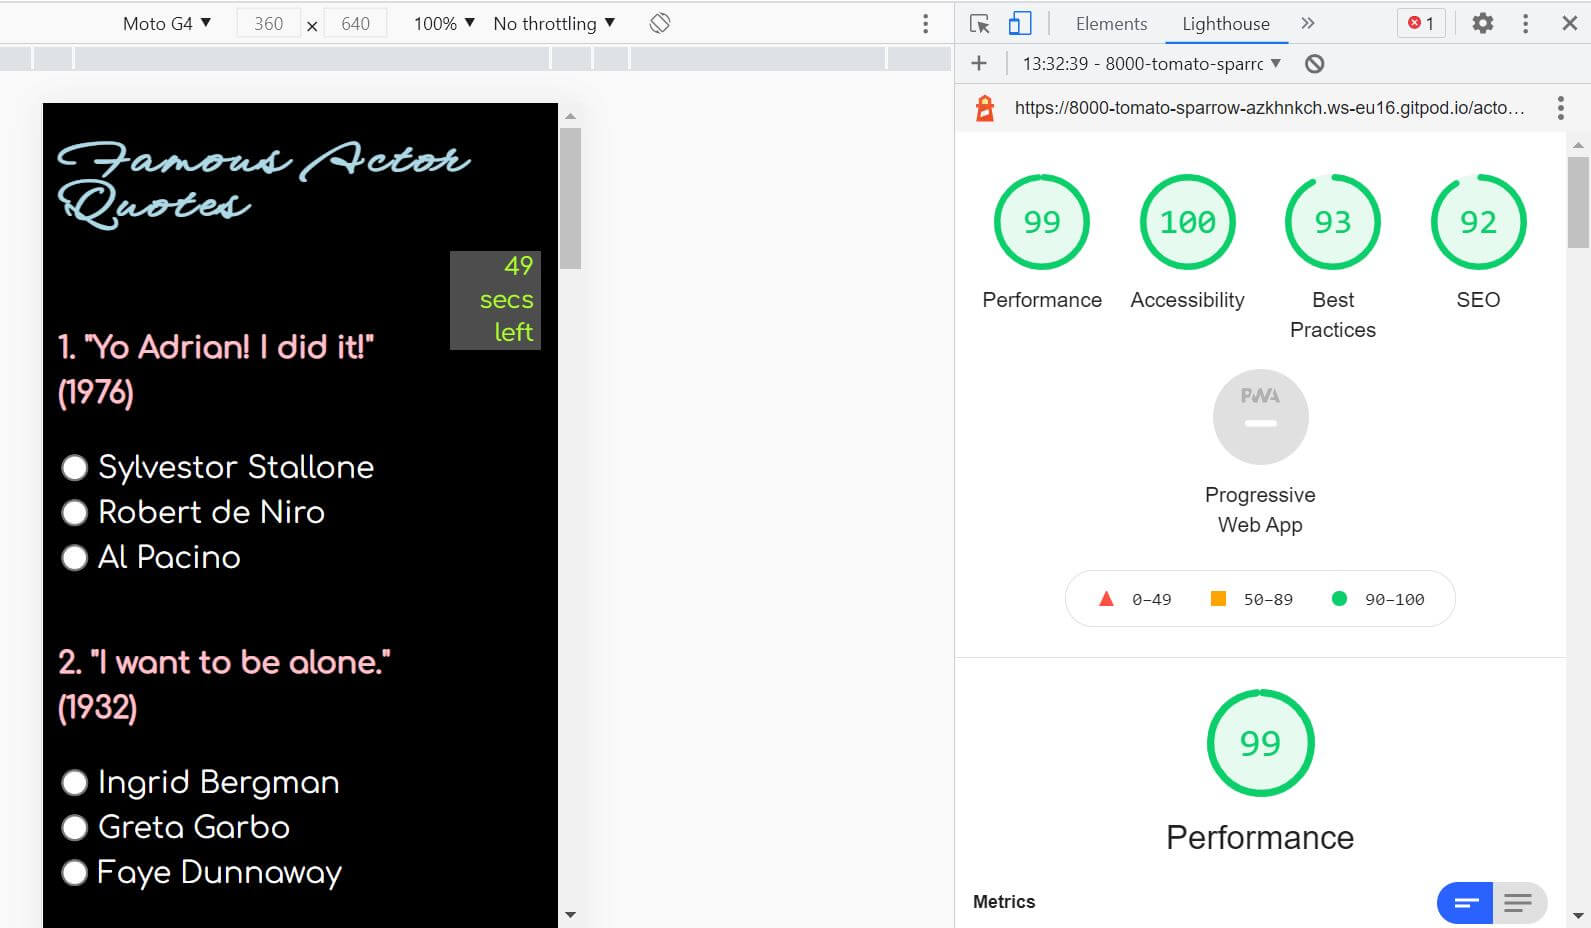
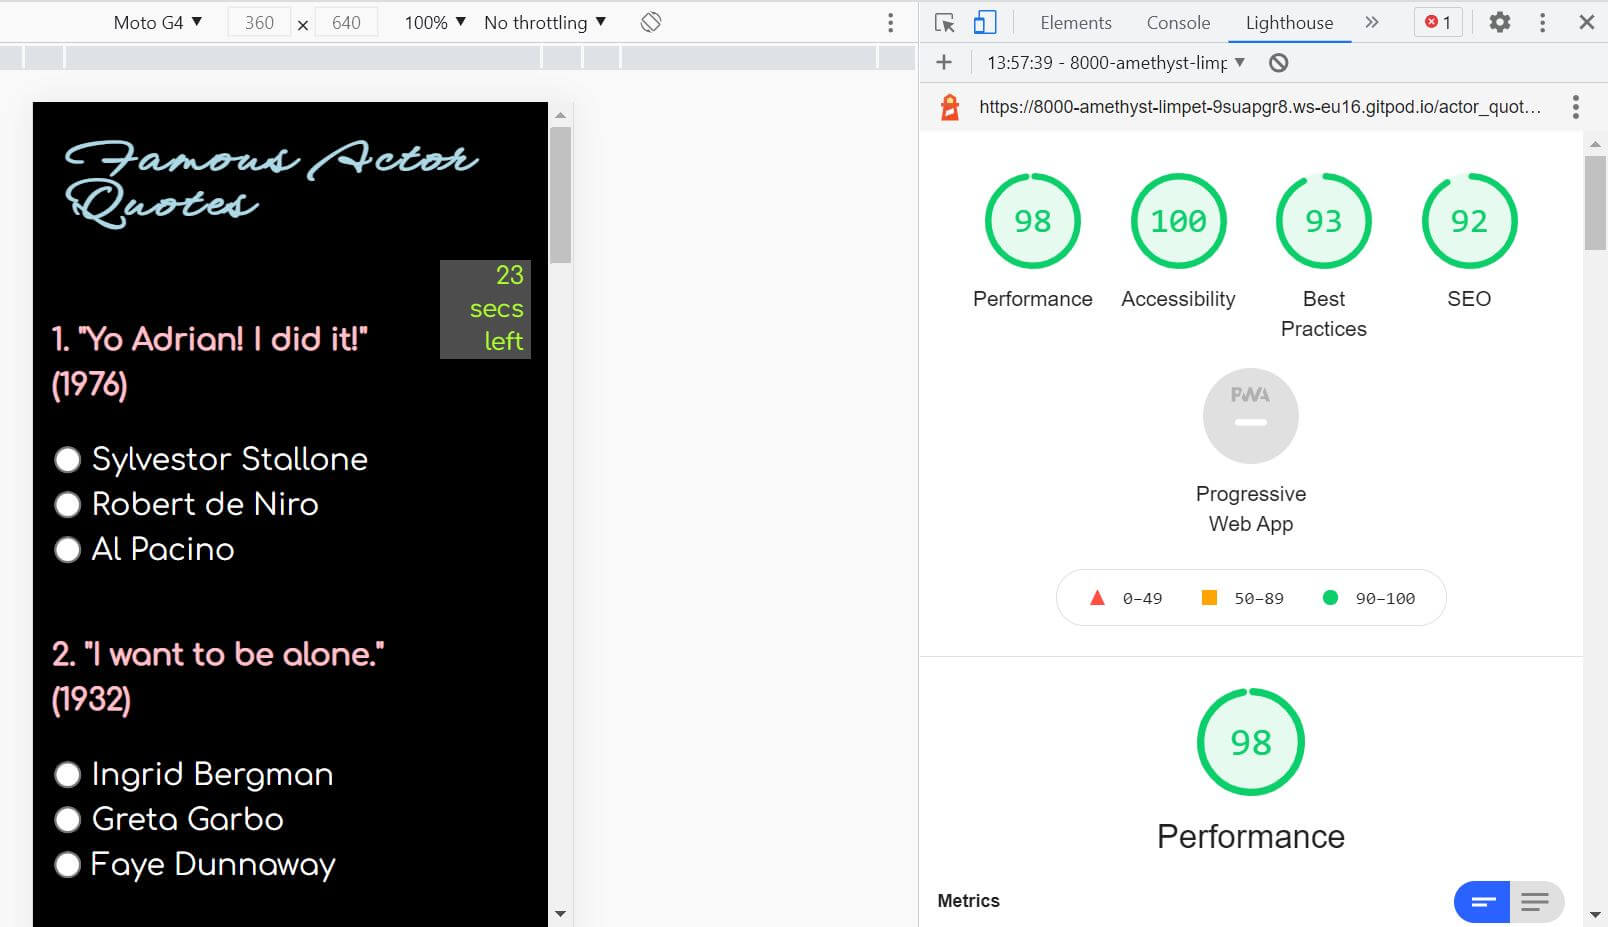
readMe: replace lighthouse reports

diff --git a/assets/css/style.css b/assets/css/style.css
@@ -449,7 +449,7 @@ input[type='radio'] {
 
   /*countdown timer on 'movie quotes', 'actor quotes' pages */
   #countdown {
-    margin-left: 45%;
+    margin-left: 46%;
     font-size: 17px;
     max-width: 60px;
   }
@@ -477,6 +477,11 @@ input[type='radio'] {
   /* button: reset */
   #resetButton {
     margin-right: 2.1875em;
+  }
+
+  /* container: to display user results */
+  .quizScore {
+    margin-right: 17em;
   }
 
   /* overlay to be displayed when user scores 10/10 on quizzes */
@@ -754,7 +759,7 @@ input[type='radio'] {
 
   .quizScore {
     font-size: 18px;
-    margin-right: 60px;
+    margin-right: 6.875em;
   }
 
   /* overlay to be displayed when user scores 10/10 on quizzes */

diff --git a/README.md b/README.md
@@ -173,7 +173,7 @@ Congratulatory message *without* a username can be found [here](assets/images/fe
 *Note*: The following message displayed:  'Two unused variables:  submitQuiz() and resetQuiz()'.  Both of these variables are called from within both the html quiz pages: *'Actor Quotes Quiz'* and *'Movie Quotes Quiz'*. [JSHint screenshot](assets/images/JSHint_code_validation_comp.jpg).
 
 
-### Lighthouse Report
+### Lighthouse Reports
 * The lighthouse report for the Home page (index.html) can be found [here](assets/images/lighthouse_report_homepage_comp.jpg).
 * The lighthouse report for the Movie Quotes Quiz page can be found [here](assets/images/lighthouse_report_movie-quotes-quiz_comp.jpg).
 * The lighthouse report for the Actor Quotes Quiz page can be found [here](assets/images/lighthouse_report_actor-quotes-quiz_comp.jpg).
